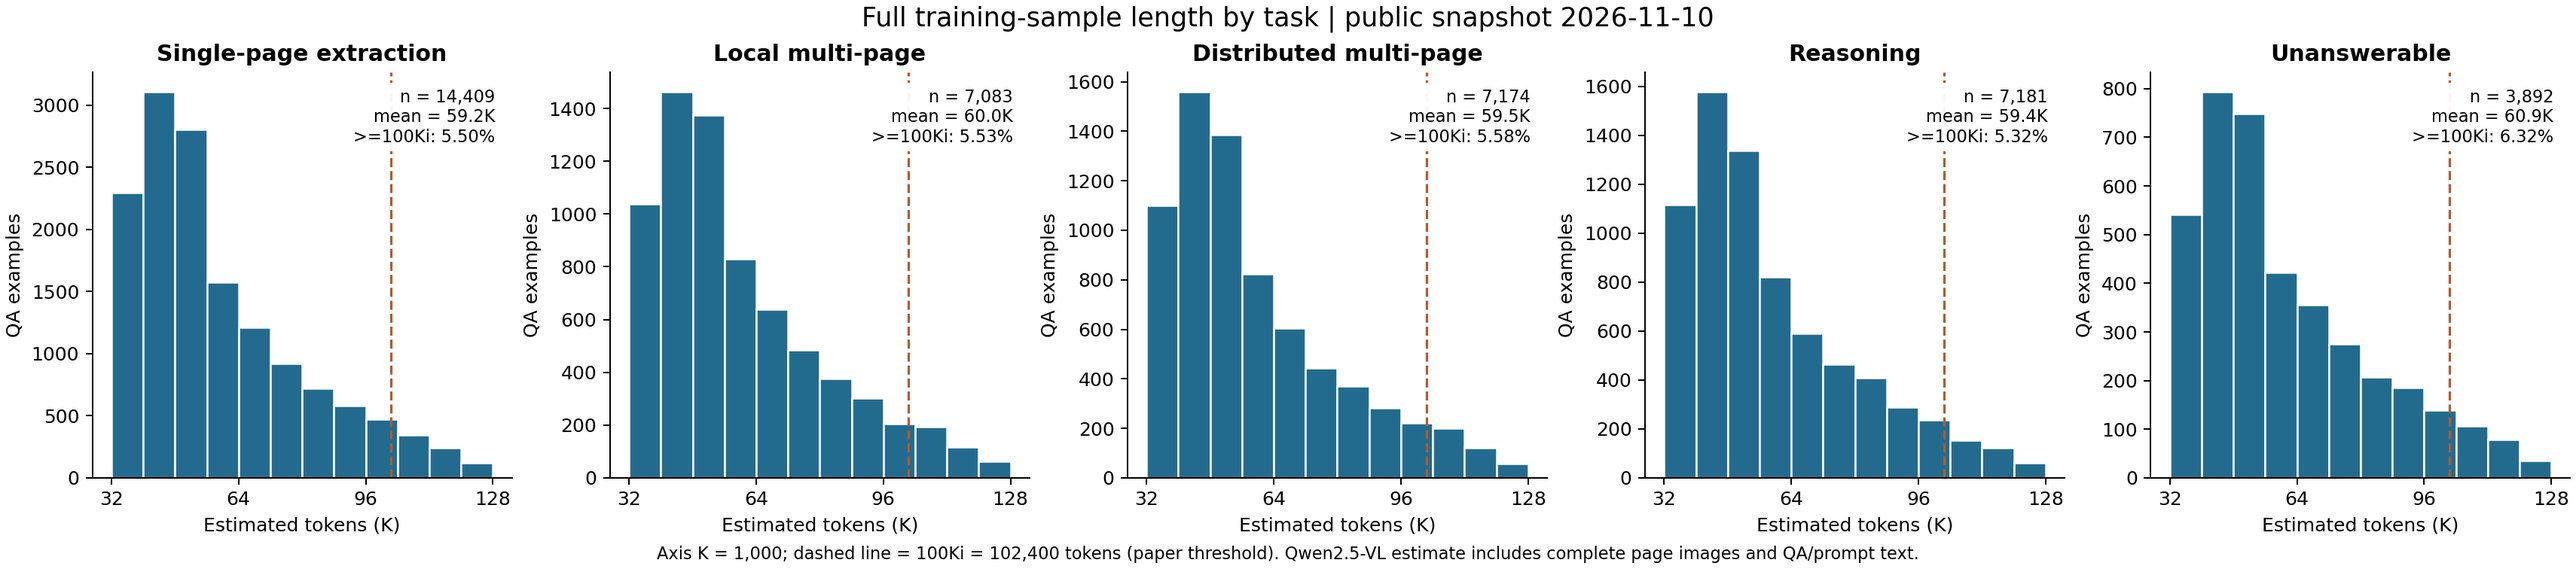
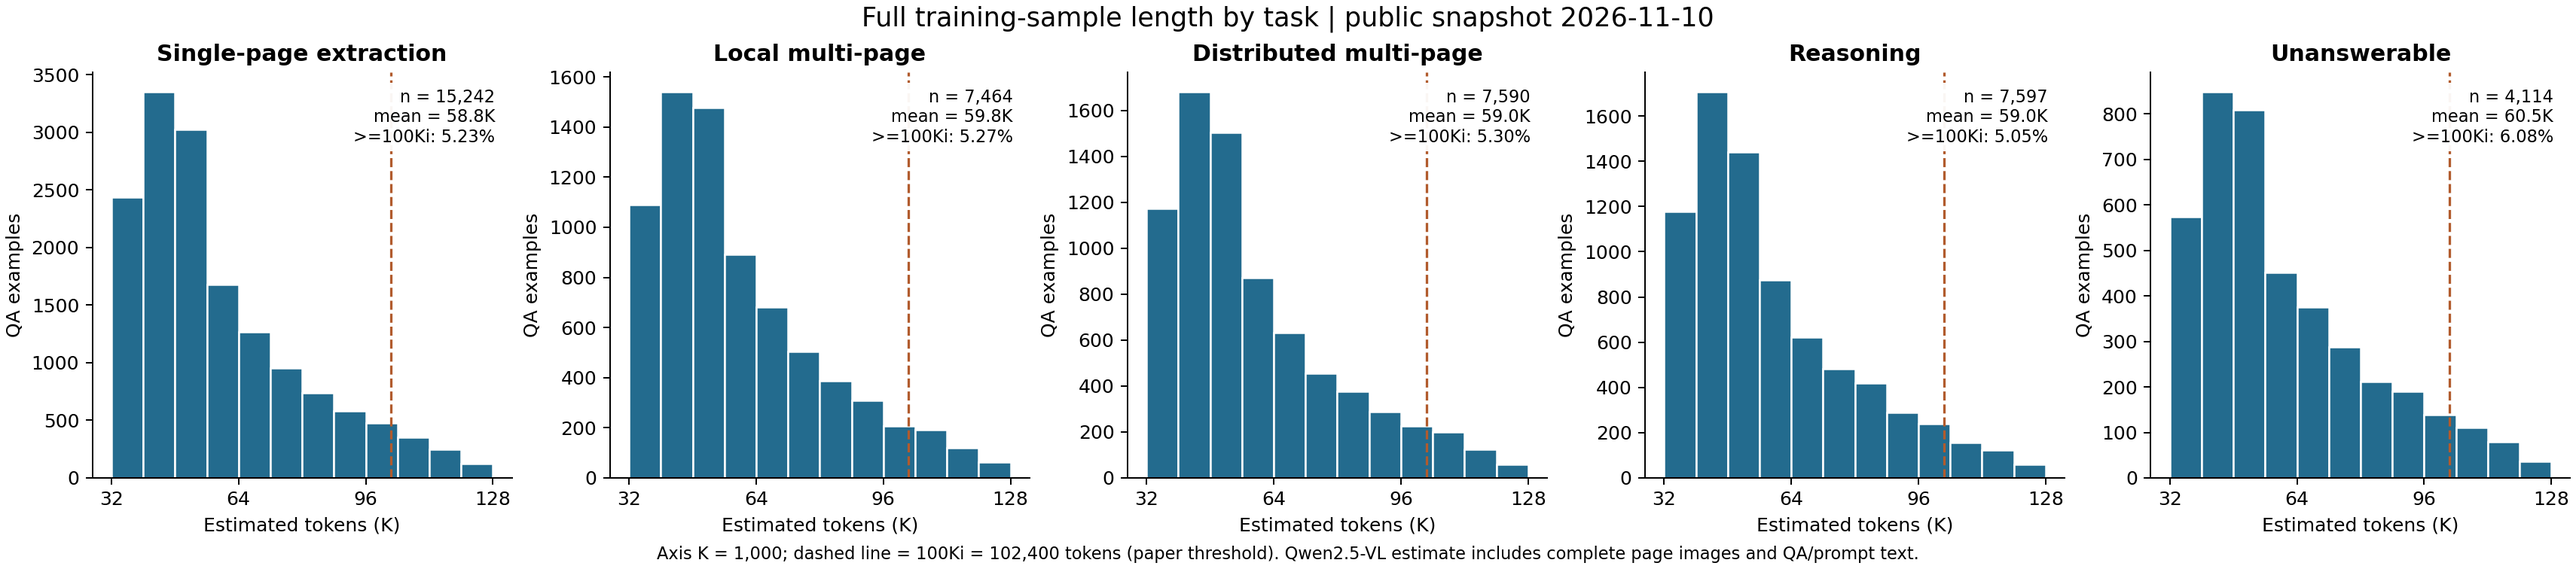
Update public corpus statistics to 2.487B measured tokens

diff --git a/docs/public_dataset.md b/docs/public_dataset.md
@@ -13,26 +13,26 @@ This page describes the admitted public snapshot identified below. It is a separ
 The manuscript defines binary prefixes (K=1024, B=2^30). Public tables use decimal K=1,000 and B=1,000,000,000; the >=100Ki statistic uses 102,400 to match the paper threshold. Exact raw counts and per-document labels are published with the dataset.
 
 <!-- PUBLIC_CORPUS_STATS_START -->
-**Public snapshot (2026-11-10): 39,739 QA examples, 8,538 source PDFs, 191,774 unique page images, and 2,368,519,161 estimated training tokens (approximately 2.369B).**
+**Public snapshot (2026-11-10): 42,007 QA examples, 9,805 source PDFs, 217,733 unique page images, and 2,486,577,693 estimated training tokens (approximately 2.487B).**
 
-[This published snapshot](https://huggingface.co/datasets/ZhaoweiWang/MMProLong-Data-Public/tree/18ed85259ec8c1d27de0298e0e1f19c595549c0e); [latest data](https://huggingface.co/datasets/ZhaoweiWang/MMProLong-Data-Public).
+[This published snapshot](https://huggingface.co/datasets/ZhaoweiWang/MMProLong-Data-Public/tree/af99961951f400a761ce8368ace57957e9c9648a); [latest data](https://huggingface.co/datasets/ZhaoweiWang/MMProLong-Data-Public).
 
 ### Corpus scale
 
 | Statistic | Public snapshot value |
 | --- | --- |
-| Admitted unique PDFs | 8,538 |
+| Admitted unique PDFs | 9,805 |
 | Document family | Public research papers |
-| Unique rendered page images | 191,774 |
-| Document pages: mean / median | 22.46 / 20 |
+| Unique rendered page images | 217,733 |
+| Document pages: mean / median | 22.21 / 20 |
 | Document pages: range / 5th-95th percentile | 14-50 / 14-38 |
-| Admitted QA examples | 39,739 |
-| Estimated training tokens | 2,368,519,161 (2.369B) |
-| Per-QA tokens: mean / median | 59.602K / 53.273K |
+| Admitted QA examples | 42,007 |
+| Estimated training tokens | 2,486,577,693 (2.487B) |
+| Per-QA tokens: mean / median | 59.194K / 53.261K |
 | Observed token range | 33,547-125,503 |
-| At least 100,000 tokens | 2,633 (6.63%) |
-| At least 100Ki = 102,400 tokens (paper threshold) | 2,212 (5.57%) |
-| Page references across all QA contexts | 932,381 |
+| At least 100,000 tokens | 2,650 (6.31%) |
+| At least 100Ki = 102,400 tokens (paper threshold) | 2,226 (5.30%) |
+| Page references across all QA contexts | 978,917 |
 
 ### Document sources
 
@@ -40,7 +40,7 @@ The manuscript defines binary prefixes (K=1024, B=2^30). Public tables use decim
 | --- | --- |
 | arxiv | 4,386 |
 | elife | 20 |
-| plos | 4,132 |
+| plos | 5,399 |
 
 Tokens are the stored Qwen2.5-VL serialized-sample estimate, including full page-image context and QA/prompt text. A PDF used by several questions contributes its context repeatedly to the training-token total. This is not a count of unique-text tokens or billed API tokens. Page images are physically stored once per document.
 
@@ -50,12 +50,12 @@ Tokens are the stored Qwen2.5-VL serialized-sample estimate, including full page
 
 | Task | QA | Avg. pages | Avg. K tokens | B tokens | Pages | K-token range | >=100Ki |
 | --- | --- | --- | --- | --- | --- | --- | --- |
-| `single` | 14,409 | 23.32 | 59.21 | 0.853 | 14-50 | 33.80-125.13 | 5.50% |
-| `multi_local` | 7,083 | 23.60 | 60.03 | 0.425 | 14-50 | 33.85-125.50 | 5.53% |
-| `multi_distributed` | 7,174 | 23.40 | 59.47 | 0.427 | 14-50 | 33.84-125.29 | 5.58% |
-| `reasoning` | 7,181 | 23.39 | 59.39 | 0.427 | 14-50 | 33.55-125.11 | 5.32% |
-| `unanswerable` | 3,892 | 23.98 | 60.88 | 0.237 | 14-50 | 33.79-125.09 | 6.32% |
-| **Total** | 39,739 | 23.46 | 59.60 | 2.369 | 14-50 | 33.55-125.50 | 5.57% |
+| `single` | 15,242 | 23.15 | 58.78 | 0.896 | 14-50 | 33.80-125.13 | 5.23% |
+| `multi_local` | 7,464 | 23.50 | 59.77 | 0.446 | 14-50 | 33.85-125.50 | 5.27% |
+| `multi_distributed` | 7,590 | 23.21 | 59.00 | 0.448 | 14-50 | 33.84-125.29 | 5.30% |
+| `reasoning` | 7,597 | 23.22 | 58.95 | 0.448 | 14-50 | 33.55-125.11 | 5.05% |
+| `unanswerable` | 4,114 | 23.83 | 60.50 | 0.249 | 14-50 | 33.79-125.09 | 6.08% |
+| **Total** | 42,007 | 23.30 | 59.19 | 2.487 | 14-50 | 33.55-125.50 | 5.30% |
 
 `K = 1,000`, `B = 1,000,000,000`; `100Ki = 102,400` tokens. Average pages in this table are **QA-weighted**, whereas the corpus-scale document average counts each PDF once. The two multi-page rows may be combined for comparison with the paper's broader extraction category. Unanswerable QA is an additional public-data task. Exact values, quantiles, and the combined task grouping are in [`metadata/statistics.json`](https://huggingface.co/datasets/ZhaoweiWang/MMProLong-Data-Public/blob/main/metadata/statistics.json).
 
@@ -65,17 +65,17 @@ Tokens are the stored Qwen2.5-VL serialized-sample estimate, including full page
 
 | Primary domain | Documents | Document share | QA | QA share |
 | --- | --- | --- | --- | --- |
-| Physics | 1,325 | 15.52% | 9,290 | 23.38% |
-| Computer Science | 1,269 | 14.86% | 9,189 | 23.12% |
-| Mathematics | 1,239 | 14.51% | 8,830 | 22.22% |
-| Biology | 983 | 11.51% | 1,917 | 4.82% |
-| Medicine | 922 | 10.80% | 2,038 | 5.13% |
-| Social Science | 807 | 9.45% | 1,951 | 4.91% |
-| Economics | 787 | 9.22% | 1,927 | 4.85% |
-| Engineering | 771 | 9.03% | 3,413 | 8.59% |
-| Earth Science | 410 | 4.80% | 1,075 | 2.71% |
-| Language and Literature | 16 | 0.19% | 51 | 0.13% |
-| Other | 9 | 0.11% | 58 | 0.15% |
+| Biology | 1,369 | 13.96% | 2,590 | 6.17% |
+| Physics | 1,331 | 13.57% | 9,302 | 22.14% |
+| Computer Science | 1,309 | 13.35% | 9,258 | 22.04% |
+| Mathematics | 1,247 | 12.72% | 8,846 | 21.06% |
+| Medicine | 1,203 | 12.27% | 2,553 | 6.08% |
+| Social Science | 975 | 9.94% | 2,249 | 5.35% |
+| Economics | 959 | 9.78% | 2,238 | 5.33% |
+| Engineering | 948 | 9.67% | 3,735 | 8.89% |
+| Earth Science | 435 | 4.44% | 1,120 | 2.67% |
+| Language and Literature | 20 | 0.20% | 58 | 0.14% |
+| Other | 9 | 0.09% | 58 | 0.14% |
 
 Document and QA shares differ because historical phases generated different numbers of questions per PDF. Domain labels describe the source PDF, not a separate topic inferred for each question.
 
@@ -83,21 +83,21 @@ Document and QA shares differ because historical phases generated different numb
 
 | Answer format | QA | Share |
 | --- | --- | --- |
-| Integer | 5,962 | 15.00% |
-| Float | 2,710 | 6.82% |
-| List | 13,722 | 34.53% |
-| String | 13,453 | 33.85% |
-| Unanswerable | 3,892 | 9.79% |
+| Integer | 6,323 | 15.05% |
+| Float | 3,053 | 7.27% |
+| List | 14,611 | 34.78% |
+| String | 13,906 | 33.10% |
+| Unanswerable | 4,114 | 9.79% |
 
-There are **35,847 answerable** and **3,892 unanswerable** QA examples. The observed necessary-evidence page counts are: 0 pages: 3,892, 1 pages: 18,080, 2 pages: 12,043, 3 pages: 4,492, 4 pages: 1,220, 5 pages: 7, 6 pages: 3, 7 pages: 1, 8 pages: 1.
+There are **37,893 answerable** and **4,114 unanswerable** QA examples. The observed necessary-evidence page counts are: 0 pages: 4,114, 1 pages: 19,115, 2 pages: 12,785, 3 pages: 4,676, 4 pages: 1,298, 5 pages: 10, 6 pages: 6, 7 pages: 1, 8 pages: 1, 9 pages: 1.
 
 <details>
 <summary>Observed QA count per source document</summary>
 
 | QA per document | Documents |
 | --- | --- |
-| 1 | 1,047 |
-| 2 | 5,084 |
+| 1 | 1,313 |
+| 2 | 6,085 |
 | 6 | 1 |
 | 8 | 1 |
 | 9 | 7 |
@@ -115,8 +115,8 @@ The 20-QA documents belong to the initial pilot; the two-QA limit applies to the
 | Recorded method | QA |
 | --- | --- |
 | legacy_full_document | 32,432 |
-| released_prompt_window_v1 | 4,569 |
-| document_tool_agent_v1 | 2,738 |
+| released_prompt_window_v1 | 5,992 |
+| document_tool_agent_v1 | 3,583 |
 
 ### Domain-label provenance
 
@@ -125,18 +125,18 @@ The 20-QA documents belong to the initial pilot; the two-QA limit applies to the
 | majority of full-context generator domain labels | 4,330 |
 | arXiv primary category mapping | 113 |
 | manual primary-topic classification for validated pilot batches | 9 |
-| majority of independent full-document verifier topic labels | 3,994 |
-| Crossref subject-query sampling; provisional until generator topic vote | 92 |
+| majority of independent full-document verifier topic labels | 5,234 |
+| Crossref subject-query sampling; provisional until generator topic vote | 119 |
 
 ## Document language
 
 | Estimated document language | Documents | Document share | Associated QA |
 | --- | --- | --- | --- |
-| English (`en`) | 8,533 | 99.941% | 39,699 |
-| Spanish (`es`) | 2 | 0.023% | 14 |
-| French (`fr`) | 1 | 0.012% | 2 |
-| Russian (`ru`) | 1 | 0.012% | 12 |
-| Chinese (`zh`) | 1 | 0.012% | 12 |
+| English (`en`) | 9,800 | 99.949% | 41,967 |
+| Spanish (`es`) | 2 | 0.020% | 14 |
+| French (`fr`) | 1 | 0.010% | 2 |
+| Russian (`ru`) | 1 | 0.010% | 12 |
+| Chinese (`zh`) | 1 | 0.010% | 12 |
 
 Language labels are automatic estimates from sampled embedded PDF text; non-English/uncertain predictions receive a prose-filter recheck. They are not human-verified. Method, sampled pages, scores and recheck provenance are retained with each document.
 
@@ -144,14 +144,14 @@ Language labels are automatic estimates from sampled embedded PDF text; non-Engl
 
 | Recorded generation model | Documents | QA | QA share | B training tokens |
 | --- | --- | --- | --- | --- |
-| `gpt-5.5-2026-04-24` | 2,407 | 28,524 | 71.78% | 1.745 |
-| `gpt-5.6-sol` | 6,131 | 11,215 | 28.22% | 0.624 |
+| `gpt-5.5-2026-04-24` | 2,407 | 28,524 | 67.90% | 1.745 |
+| `gpt-5.6-sol` | 7,398 | 13,483 | 32.10% | 0.742 |
 
 | Phase | Documents | QA | Maximum QA per document |
 | --- | --- | --- | --- |
 | Initial pilot (GPT-5.5) | 4 | 80 | 20 |
 | GPT-5.5 production | 2,403 | 28,444 | 12 |
-| Current GPT-5.6 production | 6,131 | 11,215 | 2 |
+| Current GPT-5.6 production | 7,398 | 13,483 | 2 |
 
 The current snapshot is a **mixed-model historical release**, not an all-GPT-5.6 corpus. Use the `model` field when a model-specific subset is required.
 

diff --git a/README.md b/README.md
@@ -40,7 +40,7 @@ Please check out the [paper](https://arxiv.org/abs/2605.13831) for the study and
 ## 📢 Latest Updates
 
 <!-- PUBLIC_CORPUS_SUMMARY_START -->
-**Public snapshot (2026-11-10): 39,739 QA examples, 8,538 source PDFs, 191,774 unique page images, and 2,368,519,161 estimated training tokens (approximately 2.369B).**
+**Public snapshot (2026-11-10): 42,007 QA examples, 9,805 source PDFs, 217,733 unique page images, and 2,486,577,693 estimated training tokens (approximately 2.487B).**
 
 [Dataset](https://huggingface.co/datasets/ZhaoweiWang/MMProLong-Data-Public) | [Statistics](docs/public_dataset.md)
 <!-- PUBLIC_CORPUS_SUMMARY_END -->
